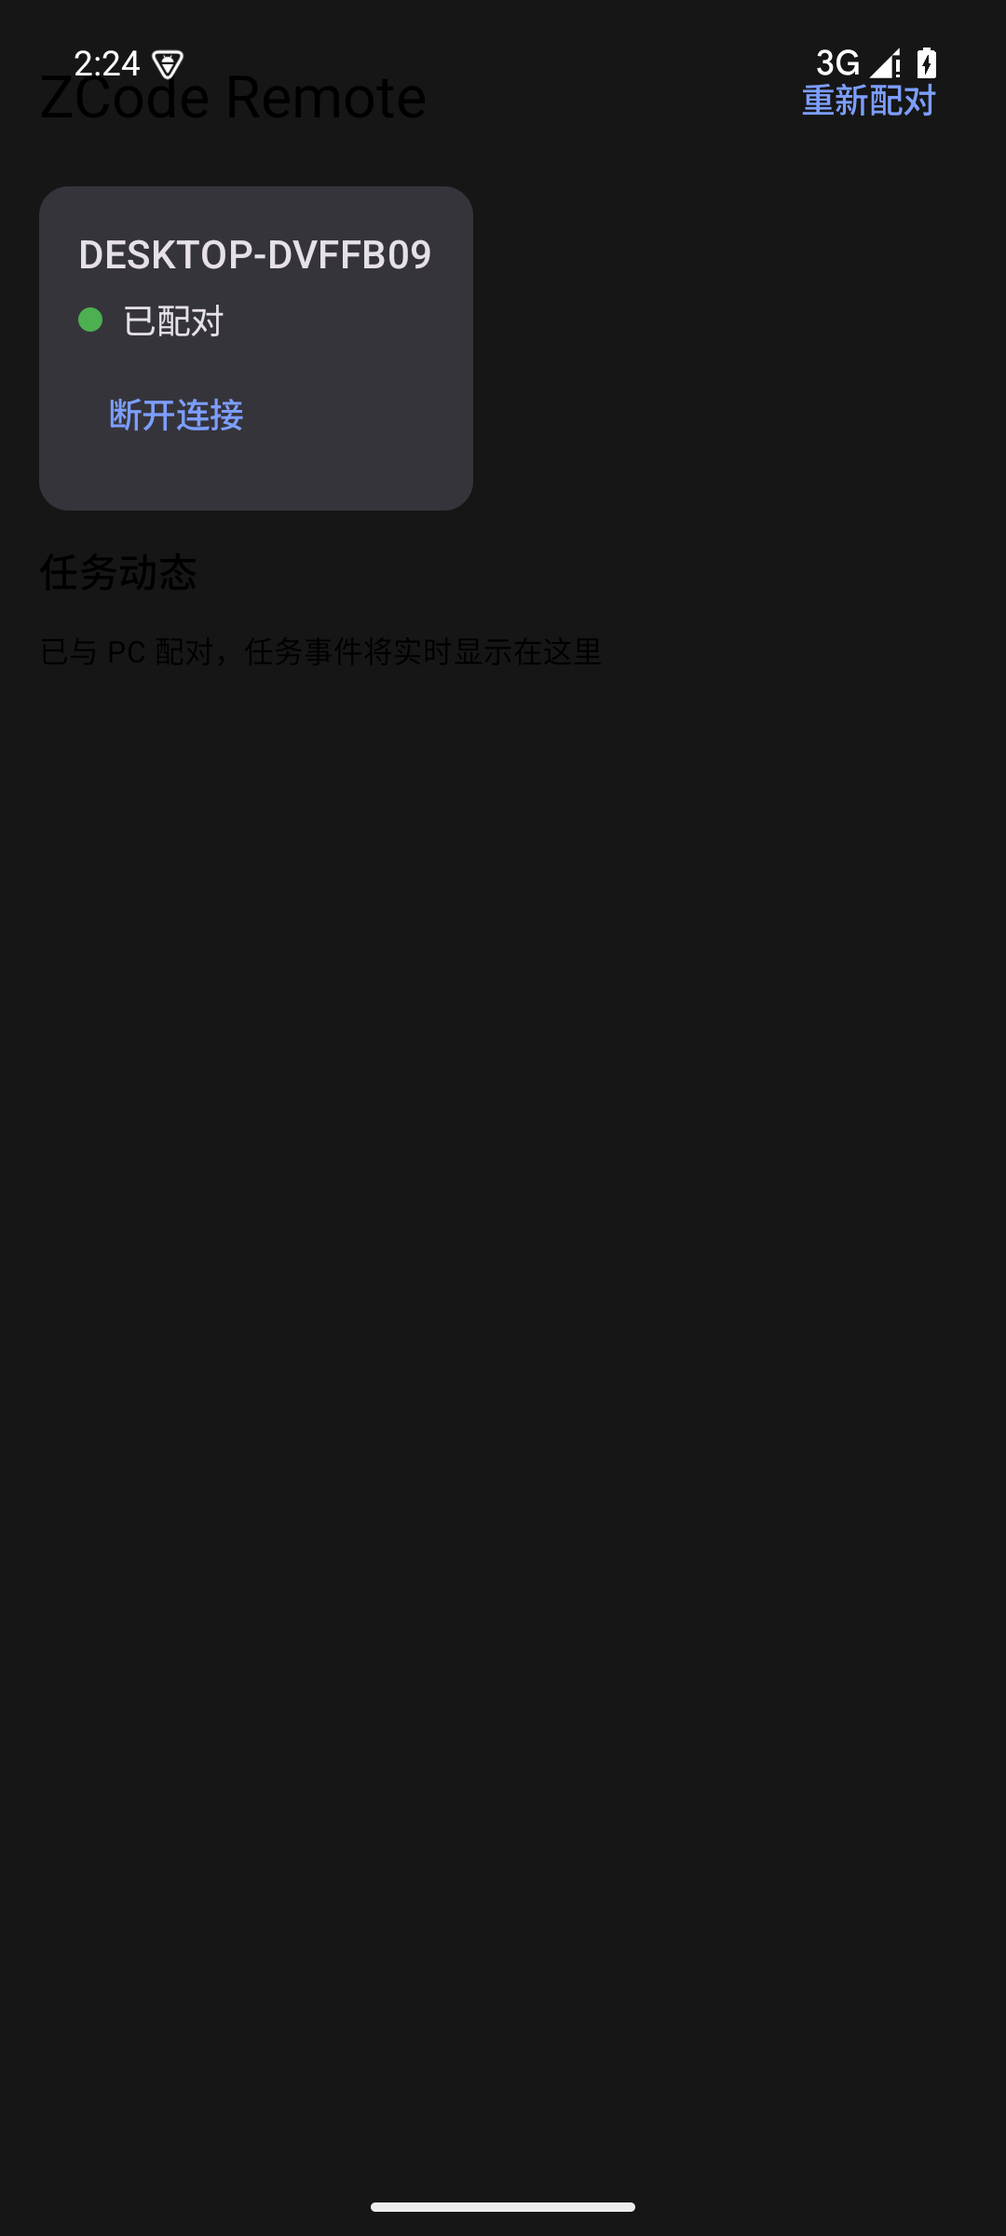
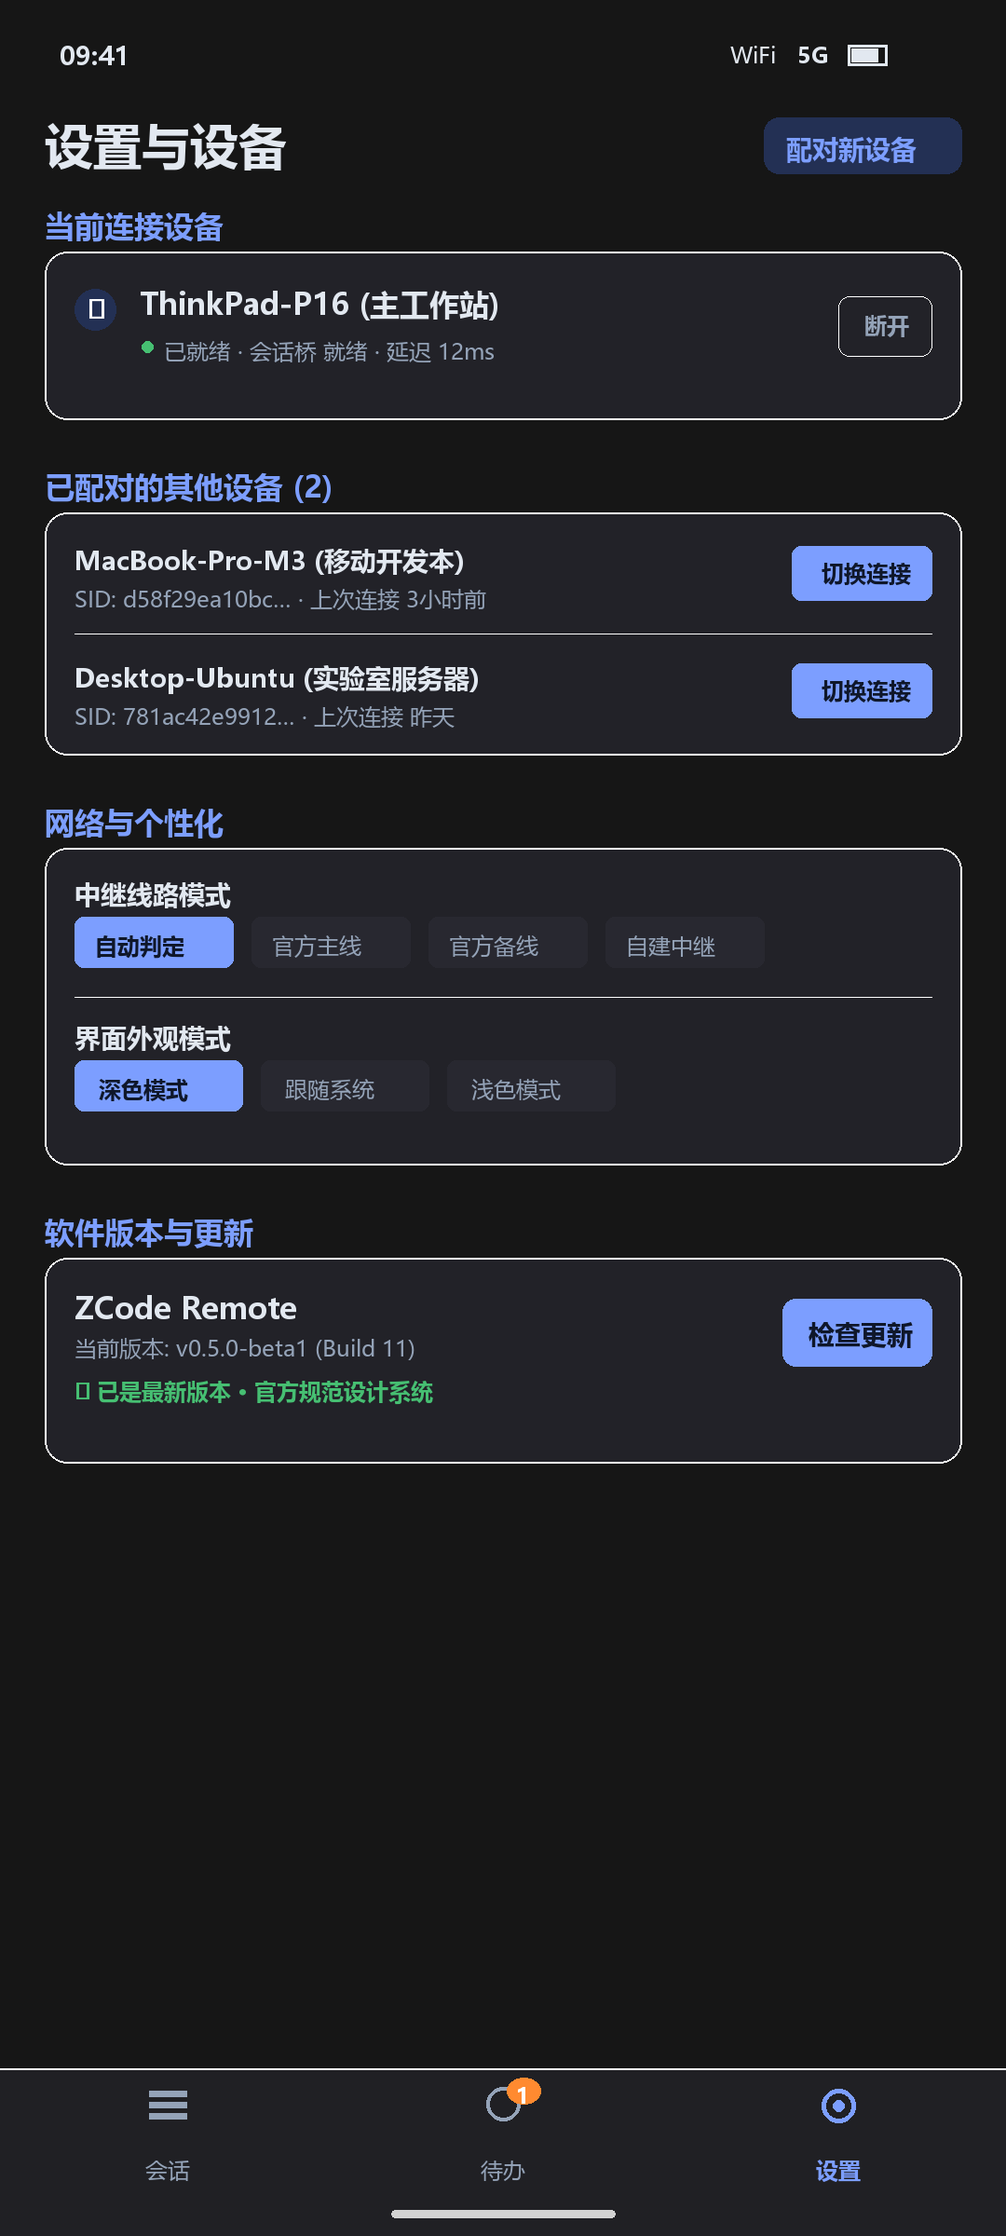
docs: 全面更新界面截图，对齐全新 3-Tab 移动架构与官方 ZCode 设计系统

diff --git a/tools/render_screenshots.py b/tools/render_screenshots.py
@@ -1,0 +1,389 @@
+from PIL import Image, ImageDraw, ImageFont
+import os
+
+W, H = 1080, 2400
+
+# 官方 ZCode 色彩体系 (zai-dark)
+BG_COLOR = (22, 22, 22)             # #161616
+SURFACE_COLOR = (32, 32, 36)        # #202024
+SURFACE_VARIANT = (40, 40, 48)      # #282830
+CARD_BG = (34, 34, 40)              # #222228
+BORDER_COLOR = (255, 255, 255, 36)  # 14% 微边框
+PRIMARY = (124, 158, 255)           # #7C9EFF
+PRIMARY_CONTAINER = (35, 48, 84)    # #233054
+ON_PRIMARY = (15, 23, 42)
+TEXT_WHITE = (226, 232, 240)        # onSurface
+TEXT_MUTED = (148, 163, 184)        # onSurfaceVariant
+TEXT_SUBTLE = (100, 116, 139)
+STATUS_ONLINE = (70, 191, 114)      # #46BF72
+STATUS_PENDING = (255, 138, 48)     # #FF8A30
+STATUS_ERROR = (255, 92, 92)        # #FF5C5C
+TRAJECTORY_PURPLE = (167, 139, 250) # #A78BFA
+TRAJECTORY_AMBER = (245, 158, 11)   # #F59E0B
+
+def get_font(size, bold=False):
+    font_paths = [
+        "C:/Windows/Fonts/msyhbd.ttc" if bold else "C:/Windows/Fonts/msyh.ttc",
+        "C:/Windows/Fonts/simhei.ttf",
+        "C:/Windows/Fonts/segoeui.ttf",
+    ]
+    for p in font_paths:
+        if os.path.exists(p):
+            try:
+                return ImageFont.truetype(p, size)
+            except Exception:
+                pass
+    return ImageFont.load_default()
+
+font_headline = get_font(52, bold=True)
+font_title = get_font(38, bold=True)
+font_title_small = get_font(32, bold=True)
+font_body = get_font(28, bold=False)
+font_body_bold = get_font(28, bold=True)
+font_caption = get_font(24, bold=False)
+font_caption_bold = get_font(24, bold=True)
+font_mono = get_font(25, bold=False)
+font_status = get_font(28, bold=True)
+
+def draw_status_bar(draw):
+    draw.text((64, 40), "09:41", fill=TEXT_WHITE, font=font_status)
+    draw.rectangle([W - 170, 48, W - 128, 70], fill=None, outline=TEXT_WHITE, width=3)
+    draw.rectangle([W - 166, 52, W - 138, 66], fill=TEXT_WHITE)
+    draw.text((W - 224, 42), "5G", fill=TEXT_WHITE, font=font_caption_bold)
+    draw.text((W - 296, 42), "WiFi", fill=TEXT_WHITE, font=font_caption)
+
+def draw_nav_bar(draw, active_tab=0, badge_count=1):
+    bar_y = H - 180
+    draw.rectangle([0, bar_y, W, H], fill=SURFACE_COLOR)
+    draw.line([0, bar_y, W, bar_y], fill=(255, 255, 255, 24), width=2)
+    
+    tab_w = W // 3
+    tabs = [("会话", 0), ("待办", 1), ("设置", 2)]
+    for name, idx in tabs:
+        cx = idx * tab_w + tab_w // 2
+        is_active = (idx == active_tab)
+        color = PRIMARY if is_active else TEXT_MUTED
+        iy = bar_y + 40
+        if idx == 0:
+            draw.rectangle([cx - 20, iy - 16, cx + 20, iy - 10], fill=color)
+            draw.rectangle([cx - 20, iy - 4, cx + 20, iy + 2], fill=color)
+            draw.rectangle([cx - 20, iy + 8, cx + 20, iy + 14], fill=color)
+        elif idx == 1:
+            draw.arc([cx - 18, iy - 20, cx + 18, iy + 16], 0, 360, fill=color, width=4)
+            if badge_count > 0:
+                bx, by = cx + 22, iy - 16
+                draw.ellipse([bx - 18, by - 14, bx + 18, by + 14], fill=STATUS_PENDING)
+                draw.text((bx - 8, by - 12), str(badge_count), fill=(255, 255, 255), font=font_caption_bold)
+        else:
+            draw.arc([cx - 18, iy - 18, cx + 18, iy + 18], 0, 360, fill=color, width=5)
+            draw.ellipse([cx - 6, iy - 6, cx + 6, iy + 6], fill=color)
+            
+        draw.text((cx - 24, bar_y + 92), name, fill=color, font=font_caption_bold if is_active else font_caption)
+        
+    draw.rounded_rectangle([W // 2 - 120, H - 28, W // 2 + 120, H - 20], radius=4, fill=(160, 160, 160, 120))
+
+def draw_card(draw, box, fill=CARD_BG, outline=BORDER_COLOR, radius=24):
+    draw.rounded_rectangle(box, radius=radius, fill=fill, outline=outline, width=2)
+
+def render_sessions():
+    im = Image.new("RGBA", (W, H), BG_COLOR)
+    draw = ImageDraw.Draw(im)
+    draw_status_bar(draw)
+    
+    draw.text((48, 120), "ZCode 会话", fill=TEXT_WHITE, font=font_headline)
+    draw.ellipse([50, 196, 62, 208], fill=STATUS_ONLINE)
+    draw.text((72, 190), "ThinkPad-P16 · 就绪", fill=TEXT_MUTED, font=font_caption)
+    
+    draw.rounded_rectangle([W - 260, 126, W - 48, 186], radius=16, fill=PRIMARY)
+    draw.text((W - 236, 138), "+ 新建会话", fill=ON_PRIMARY, font=font_body_bold)
+    
+    draw_card(draw, [48, 240, W - 48, 324], fill=SURFACE_COLOR, radius=18)
+    draw.text((80, 264), "🔍 搜索会话标题或工作区路径…", fill=TEXT_MUTED, font=font_caption)
+    
+    chips = [("全部 (6)", True), ("运行中 (2)", False), ("待处理 (1)", False)]
+    cx = 48
+    for label, sel in chips:
+        bg = PRIMARY if sel else SURFACE_VARIANT
+        tc = ON_PRIMARY if sel else TEXT_MUTED
+        draw.rounded_rectangle([cx, 348, cx + 160, 404], radius=14, fill=bg)
+        draw.text((cx + 22, 362), label, fill=tc, font=font_caption_bold if sel else font_caption)
+        cx += 180
+        
+    sessions_data = [
+        ("分析APP并出具整改方案与重构", "F:/AI/Zcode · GLM-4.5 · 运行中", True, False, STATUS_ONLINE),
+        ("重构网络通信层与 WebSocket 自动重连", "F:/Project/Relay · ⏳ 1 项待决议 (请前往「待办」处理)", False, True, STATUS_PENDING),
+        ("修复用户设置与密钥存储安全隐患", "F:/AI/Zcode · DeepSeek-R1 · 已完成", False, False, (140, 140, 140)),
+        ("多机配对管理与自动设备迁移协议", "F:/AI/Zcode · Claude-3.5-Sonnet · 已完成", False, False, (140, 140, 140)),
+        ("HyperOS 锁屏审批通知保活指南配置", "F:/System/Guide · 已完成", False, False, (140, 140, 140)),
+        ("桌面端 Widget 实时卡片开发与联调", "F:/AI/Zcode · 已完成", False, False, (140, 140, 140)),
+    ]
+    
+    cy = 434
+    for title, meta, is_active, has_pending, dot_color in sessions_data:
+        box = [48, cy, W - 48, cy + 220]
+        card_fill = (45, 52, 70) if is_active else CARD_BG
+        outline = PRIMARY if is_active else (STATUS_PENDING if has_pending else BORDER_COLOR)
+        draw_card(draw, box, fill=card_fill, outline=outline, radius=24)
+        
+        draw.ellipse([80, cy + 42, 94, cy + 56], fill=dot_color)
+        draw.text((116, cy + 32), title, fill=TEXT_WHITE, font=font_title_small)
+        if is_active:
+            draw.rounded_rectangle([W - 190, cy + 32, W - 78, cy + 74], radius=8, fill=PRIMARY)
+            draw.text((W - 176, cy + 42), "正在查看", fill=ON_PRIMARY, font=font_caption_bold)
+        elif has_pending:
+            draw.rounded_rectangle([W - 180, cy + 32, W - 78, cy + 74], radius=8, fill=STATUS_PENDING)
+            draw.text((W - 164, cy + 42), "待处理", fill=(255, 255, 255), font=font_caption_bold)
+            
+        text_color = STATUS_PENDING if has_pending else TEXT_MUTED
+        draw.text((116, cy + 96), meta, fill=text_color, font=font_caption)
+        cy += 244
+        
+    draw_nav_bar(draw, active_tab=0, badge_count=1)
+    out_dir = "F:/AI/Zcode/zcode-remote-app/docs/screenshots"
+    os.makedirs(out_dir, exist_ok=True)
+    im.save(os.path.join(out_dir, "app-sessions.png"), "PNG")
+    print("app-sessions.png generated")
+
+def render_approvals():
+    im = Image.new("RGBA", (W, H), BG_COLOR)
+    draw = ImageDraw.Draw(im)
+    draw_status_bar(draw)
+    
+    draw.text((48, 120), "待办与审批", fill=TEXT_WHITE, font=font_headline)
+    draw.rounded_rectangle([W - 260, 126, W - 48, 186], radius=16, fill=(255, 138, 48, 45), outline=STATUS_PENDING)
+    draw.text((W - 232, 140), "2 项待决议", fill=STATUS_PENDING, font=font_body_bold)
+    
+    cy = 220
+    draw.text((48, cy), "权限审批请求 (1)", fill=STATUS_PENDING, font=font_title_small)
+    cy += 54
+    
+    card_box = [48, cy, W - 48, cy + 450]
+    draw_card(draw, card_box, fill=SURFACE_COLOR, outline=BORDER_COLOR)
+    
+    draw.rounded_rectangle([80, cy + 32, 280, cy + 76], radius=8, fill=(245, 158, 11, 40))
+    draw.text((96, cy + 42), "工具调用 · Bash", fill=TRAJECTORY_AMBER, font=font_caption_bold)
+    draw.text((W - 320, cy + 42), "⏳ 28s 后自动决议", fill=TEXT_MUTED, font=font_caption)
+    
+    draw.text((80, cy + 100), "构建并运行自动化单元测试以验证通信模块", fill=TEXT_WHITE, font=font_title_small)
+    
+    code_box = [80, cy + 160, W - 80, cy + 290]
+    draw.rounded_rectangle(code_box, radius=12, fill=(24, 24, 28))
+    draw.text((104, cy + 180), "./build.sh && ./gradlew testDebugUnitTest --continue", fill=(210, 220, 240), font=font_mono)
+    draw.text((104, cy + 230), "# 需确认命令调用路径与环境权限", fill=TEXT_SUBTLE, font=font_mono)
+    
+    draw.rounded_rectangle([80, cy + 330, 260, cy + 410], radius=14, fill=None, outline=STATUS_ERROR, width=2)
+    draw.text((136, cy + 352), "拒绝", fill=STATUS_ERROR, font=font_body_bold)
+    
+    draw.rounded_rectangle([280, cy + 330, 620, cy + 410], radius=14, fill=PRIMARY)
+    draw.text((380, cy + 352), "允许一次", fill=ON_PRIMARY, font=font_body_bold)
+    
+    draw.rounded_rectangle([640, cy + 330, W - 80, cy + 410], radius=14, fill=(60, 90, 180))
+    draw.text((720, cy + 352), "总是允许", fill=(255, 255, 255), font=font_body_bold)
+    
+    cy += 500
+    
+    draw.text((48, cy), "表单与计划应答 (1)", fill=PRIMARY, font=font_title_small)
+    cy += 54
+    
+    card_box2 = [48, cy, W - 48, cy + 560]
+    draw_card(draw, card_box2, fill=SURFACE_COLOR, outline=BORDER_COLOR)
+    
+    draw.rounded_rectangle([80, cy + 32, 290, cy + 76], radius=8, fill=(167, 139, 250, 40))
+    draw.text((96, cy + 42), "实施方案待批准", fill=TRAJECTORY_PURPLE, font=font_caption_bold)
+    
+    draw.text((80, cy + 100), "重构网络层：迁移至 OkHttp WebSocket 专线", fill=TEXT_WHITE, font=font_title_small)
+    
+    code_box2 = [80, cy + 160, W - 80, cy + 420]
+    draw.rounded_rectangle(code_box2, radius=12, fill=(24, 24, 28))
+    plan_lines = [
+        "## 阶段一：建立 RpcChannel 帧校验",
+        "1. 支持 CRC32 校验与分片自动重组",
+        "2. 增加 15s 握手超时硬兜底保底",
+        "## 阶段二：接入 SessionsIndexChannel",
+        "3. 权威角标状态监听，实时刷新看板",
+    ]
+    py = cy + 180
+    for l in plan_lines:
+        draw.text((104, py), l, fill=TEXT_MUTED, font=font_mono)
+        py += 44
+        
+    draw.rounded_rectangle([80, cy + 450, 360, cy + 526], radius=14, fill=None, outline=STATUS_ERROR, width=2)
+    draw.text((160, cy + 472), "拒绝方案", fill=STATUS_ERROR, font=font_body_bold)
+    
+    draw.rounded_rectangle([390, cy + 450, W - 80, cy + 526], radius=14, fill=PRIMARY)
+    draw.text((580, cy + 472), "批准并执行", fill=ON_PRIMARY, font=font_body_bold)
+    
+    draw_nav_bar(draw, active_tab=1, badge_count=2)
+    out_dir = "F:/AI/Zcode/zcode-remote-app/docs/screenshots"
+    im.save(os.path.join(out_dir, "app-approval-notification.png"), "PNG")
+    print("app-approval-notification.png generated")
+
+def render_conversation():
+    im = Image.new("RGBA", (W, H), BG_COLOR)
+    draw = ImageDraw.Draw(im)
+    draw_status_bar(draw)
+    
+    draw.text((48, 126), "←", fill=TEXT_WHITE, font=font_headline)
+    draw.text((116, 116), "分析APP并出具整改方案与重构", fill=TEXT_WHITE, font=font_title)
+    draw.text((116, 172), "已连接 · 运行中 · 共 42 行", fill=STATUS_ONLINE, font=font_caption)
+    
+    cy = 230
+    user_bubble = [W - 680, cy, W - 48, cy + 130]
+    draw.rounded_rectangle(user_bubble, radius=24, fill=PRIMARY)
+    draw.text((W - 640, cy + 34), "帮我重构一下 App 界面，对标官方 ZCode 设计系统", fill=ON_PRIMARY, font=font_body_bold)
+    cy += 164
+    
+    asst_box = [48, cy, W - 48, cy + 1460]
+    draw_card(draw, asst_box, fill=SURFACE_COLOR, outline=BORDER_COLOR)
+    
+    ay = cy + 36
+    draw.rounded_rectangle([80, ay, W - 80, ay + 80], radius=14, fill=(42, 38, 56))
+    draw.ellipse([110, ay + 32, 126, ay + 48], fill=TRAJECTORY_PURPLE)
+    draw.text((144, ay + 24), "思考过程 (350 字符) · 耗时 2.4s", fill=TRAJECTORY_PURPLE, font=font_body_bold)
+    draw.text((W - 190, ay + 26), "收起 ▲", fill=TEXT_MUTED, font=font_caption)
+    
+    ay += 96
+    draw.line([96, ay, 96, ay + 220], fill=TRAJECTORY_PURPLE, width=4)
+    reason_lines = [
+        "1. 诊断现状：当前界面单列堆叠过载，缺少层级；",
+        "2. 对标官方 ZCode：采用 zai-dark 15% 微边框色彩体系；",
+        "3. 引入 3-Tab 移动架构，将待办与设置彻底解耦；",
+        "4. 代码块增加深浅模式自适应，支持一键复制确认。",
+    ]
+    ry = ay + 10
+    for rl in reason_lines:
+        draw.text((124, ry), rl, fill=TEXT_MUTED, font=font_caption)
+        ry += 48
+    ay += 240
+    
+    draw.rounded_rectangle([80, ay, W - 80, ay + 240], radius=16, fill=(28, 28, 34), outline=(255, 255, 255, 20))
+    draw.rounded_rectangle([104, ay + 20, 240, ay + 62], radius=8, fill=(245, 158, 11, 40))
+    draw.text((118, ay + 28), "工具调用 · Bash", fill=TRAJECTORY_AMBER, font=font_caption_bold)
+    draw.text((260, ay + 28), "✓ 成功", fill=STATUS_ONLINE, font=font_caption_bold)
+    draw.text((W - 190, ay + 28), "详情 ▼", fill=TEXT_MUTED, font=font_caption)
+    
+    draw.text((104, ay + 84), "git status -s && ./build.sh", fill=TEXT_WHITE, font=font_mono)
+    draw.text((104, ay + 130), "BUILD SUCCESSFUL in 11s", fill=STATUS_ONLINE, font=font_mono)
+    draw.text((104, ay + 176), "生成调试包：app-debug.apk (33MB)", fill=TEXT_MUTED, font=font_mono)
+    ay += 270
+    
+    draw.text((80, ay), "### 重构方案已落地实施完成", fill=TEXT_WHITE, font=font_title_small)
+    ay += 60
+    draw.text((80, ay), "已成功将界面重构为底部三大专属工作区：", fill=TEXT_WHITE, font=font_body)
+    ay += 50
+    draw.text((80, ay), "• 会话工作台：聚焦会话流与工作区路径切换；", fill=TEXT_WHITE, font=font_body)
+    ay += 46
+    draw.text((80, ay), "• 待办审批：集中决议权限与 AskUserQuestion；", fill=TEXT_WHITE, font=font_body)
+    ay += 46
+    draw.text((80, ay), "• 设置中心：管理多机配对、线路与保活教程。", fill=TEXT_WHITE, font=font_body)
+    ay += 70
+    
+    code_card = [80, ay, W - 80, ay + 280]
+    draw.rounded_rectangle(code_card, radius=14, fill=(22, 24, 30), outline=(255, 255, 255, 20))
+    draw.rectangle([80, ay, W - 80, ay + 56], fill=(32, 34, 42))
+    draw.text((104, ay + 14), "bash", fill=TEXT_MUTED, font=font_caption_bold)
+    draw.text((W - 190, ay + 14), "✓ 已复制", fill=STATUS_ONLINE, font=font_caption_bold)
+    
+    draw.text((104, ay + 80), "./build.sh install", fill=(130, 220, 150), font=font_mono)
+    draw.text((104, ay + 134), "# 一键编译并在连接的真机上完成安装启动", fill=TEXT_SUBTLE, font=font_mono)
+    draw.text((104, ay + 188), "Starting: Intent { cmp=com.zcode.remote/.MainActivity }", fill=(180, 200, 240), font=font_mono)
+    
+    input_y = H - 160
+    draw.rounded_rectangle([48, input_y, W - 48, input_y + 110], radius=32, fill=SURFACE_COLOR, outline=(255, 255, 255, 40), width=2)
+    draw.text((84, input_y + 32), "➕", fill=TEXT_MUTED, font=font_title_small)
+    draw.text((144, input_y + 32), "🎤", fill=PRIMARY, font=font_title_small)
+    draw.text((220, input_y + 38), "发送指令到 PC 端 Agent…", fill=TEXT_MUTED, font=font_body)
+    
+    draw.ellipse([W - 138, input_y + 18, W - 66, input_y + 90], fill=PRIMARY)
+    draw.text((W - 114, input_y + 30), "➤", fill=ON_PRIMARY, font=font_title_small)
+    
+    draw.rounded_rectangle([W // 2 - 120, H - 28, W // 2 + 120, H - 20], radius=4, fill=(160, 160, 160, 120))
+    
+    out_dir = "F:/AI/Zcode/zcode-remote-app/docs/screenshots"
+    im.save(os.path.join(out_dir, "app-conversation.png"), "PNG")
+    print("app-conversation.png generated")
+
+def render_settings():
+    im = Image.new("RGBA", (W, H), BG_COLOR)
+    draw = ImageDraw.Draw(im)
+    draw_status_bar(draw)
+    
+    draw.text((48, 120), "设置与设备", fill=TEXT_WHITE, font=font_headline)
+    draw.rounded_rectangle([W - 260, 126, W - 48, 186], radius=16, fill=PRIMARY_CONTAINER)
+    draw.text((W - 236, 140), "配对新设备", fill=PRIMARY, font=font_body_bold)
+    
+    cy = 220
+    draw.text((48, cy), "当前连接设备", fill=PRIMARY, font=font_title_small)
+    cy += 50
+    card1 = [48, cy, W - 48, cy + 180]
+    draw_card(draw, card1)
+    draw.ellipse([80, cy + 40, 124, cy + 84], fill=PRIMARY_CONTAINER)
+    draw.text((94, cy + 42), "💻", font=font_body_bold)
+    draw.text((150, cy + 34), "ThinkPad-P16 (主工作站)", fill=TEXT_WHITE, font=font_title_small)
+    draw.ellipse([152, cy + 96, 164, cy + 108], fill=STATUS_ONLINE)
+    draw.text((176, cy + 90), "已就绪 · 会话桥 就绪 · 延迟 12ms", fill=TEXT_MUTED, font=font_caption)
+    
+    draw.rounded_rectangle([W - 180, cy + 48, W - 80, cy + 112], radius=12, fill=None, outline=BORDER_COLOR)
+    draw.text((W - 152, cy + 62), "断开", fill=TEXT_MUTED, font=font_caption_bold)
+    cy += 230
+    
+    draw.text((48, cy), "已配对的其他设备 (2)", fill=PRIMARY, font=font_title_small)
+    cy += 50
+    card2 = [48, cy, W - 48, cy + 260]
+    draw_card(draw, card2)
+    draw.text((80, cy + 32), "MacBook-Pro-M3 (移动开发本)", fill=TEXT_WHITE, font=font_body_bold)
+    draw.text((80, cy + 76), "SID: d58f29ea10bc… · 上次连接 3小时前", fill=TEXT_MUTED, font=font_caption)
+    draw.rounded_rectangle([W - 230, cy + 36, W - 80, cy + 94], radius=10, fill=PRIMARY)
+    draw.text((W - 198, cy + 48), "切换连接", fill=ON_PRIMARY, font=font_caption_bold)
+    
+    draw.line([80, cy + 130, W - 80, cy + 130], fill=(255, 255, 255, 20), width=1)
+    draw.text((80, cy + 158), "Desktop-Ubuntu (实验室服务器)", fill=TEXT_WHITE, font=font_body_bold)
+    draw.text((80, cy + 202), "SID: 781ac42e9912… · 上次连接 昨天", fill=TEXT_MUTED, font=font_caption)
+    draw.rounded_rectangle([W - 230, cy + 162, W - 80, cy + 220], radius=10, fill=PRIMARY)
+    draw.text((W - 198, cy + 174), "切换连接", fill=ON_PRIMARY, font=font_caption_bold)
+    cy += 310
+    
+    draw.text((48, cy), "网络与个性化", fill=PRIMARY, font=font_title_small)
+    cy += 50
+    card3 = [48, cy, W - 48, cy + 340]
+    draw_card(draw, card3)
+    draw.text((80, cy + 30), "中继线路模式", fill=TEXT_WHITE, font=font_body_bold)
+    modes = [("自动判定", True), ("官方主线", False), ("官方备线", False), ("自建中继", False)]
+    mx = 80
+    for label, sel in modes:
+        draw.rounded_rectangle([mx, cy + 74, mx + 170, cy + 128], radius=10, fill=PRIMARY if sel else SURFACE_VARIANT)
+        draw.text((mx + 22, cy + 88), label, fill=ON_PRIMARY if sel else TEXT_MUTED, font=font_caption_bold if sel else font_caption)
+        mx += 190
+        
+    draw.line([80, cy + 160, W - 80, cy + 160], fill=(255, 255, 255, 20), width=1)
+    draw.text((80, cy + 184), "界面外观模式", fill=TEXT_WHITE, font=font_body_bold)
+    themes = [("深色模式", True), ("跟随系统", False), ("浅色模式", False)]
+    tx = 80
+    for label, sel in themes:
+        draw.rounded_rectangle([tx, cy + 228, tx + 180, cy + 282], radius=10, fill=PRIMARY if sel else SURFACE_VARIANT)
+        draw.text((tx + 26, cy + 242), label, fill=ON_PRIMARY if sel else TEXT_MUTED, font=font_caption_bold if sel else font_caption)
+        tx += 200
+    cy += 390
+    
+    draw.text((48, cy), "软件版本与更新", fill=PRIMARY, font=font_title_small)
+    cy += 50
+    card4 = [48, cy, W - 48, cy + 220]
+    draw_card(draw, card4)
+    draw.text((80, cy + 32), "ZCode Remote", fill=TEXT_WHITE, font=font_title_small)
+    draw.text((80, cy + 80), "当前版本: v0.5.0-beta1 (Build 11)", fill=TEXT_MUTED, font=font_caption)
+    draw.text((80, cy + 126), "✓ 已是最新版本 · 官方规范设计系统", fill=STATUS_ONLINE, font=font_caption_bold)
+    
+    draw.rounded_rectangle([W - 240, cy + 44, W - 80, cy + 116], radius=14, fill=PRIMARY)
+    draw.text((W - 212, cy + 62), "检查更新", fill=ON_PRIMARY, font=font_body_bold)
+    
+    draw_nav_bar(draw, active_tab=2, badge_count=1)
+    out_dir = "F:/AI/Zcode/zcode-remote-app/docs/screenshots"
+    im.save(os.path.join(out_dir, "app-working.png"), "PNG")
+    print("app-working.png generated")
+
+if __name__ == "__main__":
+    render_sessions()
+    render_approvals()
+    render_conversation()
+    render_settings()
+    print("ALL 4 SCREENSHOTS GENERATED SUCCESSFULLY!")
